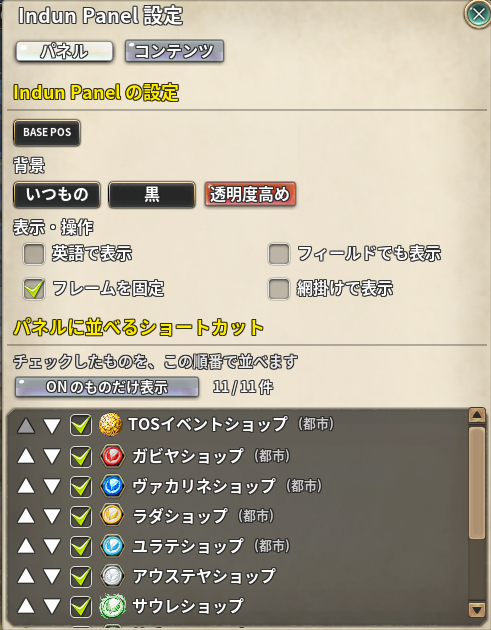
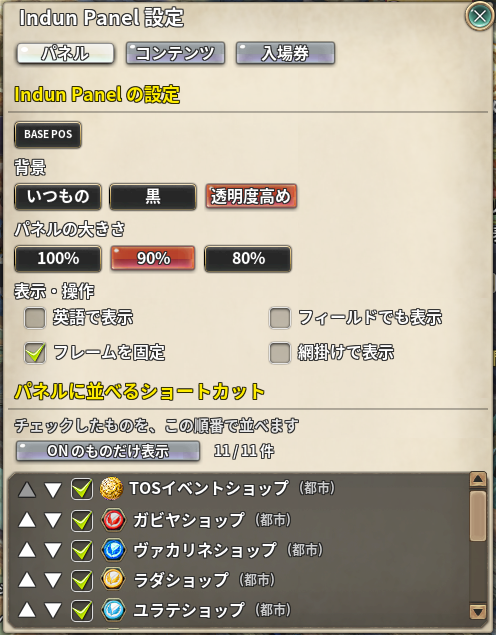
fix(another_warehouse): お気に入りの帯の見出しが 2 段に出ていたのを直す
素のグループは「大分類(プレミアム) -> 小分類(消費) -> スロット」の 3 段だが、
お気に入りは小分類を持たない。同じ作りを真似ていたので「お気に入り (3)」が
2 段続けて出ていた(実機のスクリーンショットで判明)。スロットセットを帯の直下へ入れる。

あわせて Indun Panel の設定のスクリーンショット 2 枚を実機のものへ差し替え、
alt テキストを今の画面へ合わせ直した(タブが 3 つ / 「パネルの大きさ」の 3 ボタン /
「▲▼で並ぶ順番を変えられます」の注記)。

diff --git a/nexus_addons_p/README.md b/nexus_addons_p/README.md
@@ -296,6 +296,7 @@ Nexus Addons P は本家をリネームした派生版のため、**両方を同
       右クリックが搬出入ではなくお気に入りの登録のままになってしまうためです）
     * **検索で絞っている間に足しても、絞り込みは解けません。**
     * 窓は**初めて開いた位置を覚えます**。以前は足すたびに窓が少しずつ上へ跳ねていました。
+    * 一覧の帯の見出しが「お気に入り」「お気に入り」と 2 段に出ていたのを 1 段にしました。
     * `TAKE SET` とは別のものです。あちらは「何を何個取り出すか」まで決めて実際に
       搬出する仕組みで、お気に入りは**並べ方を変えるだけ**です。自動の搬出入には
       関わりません。
